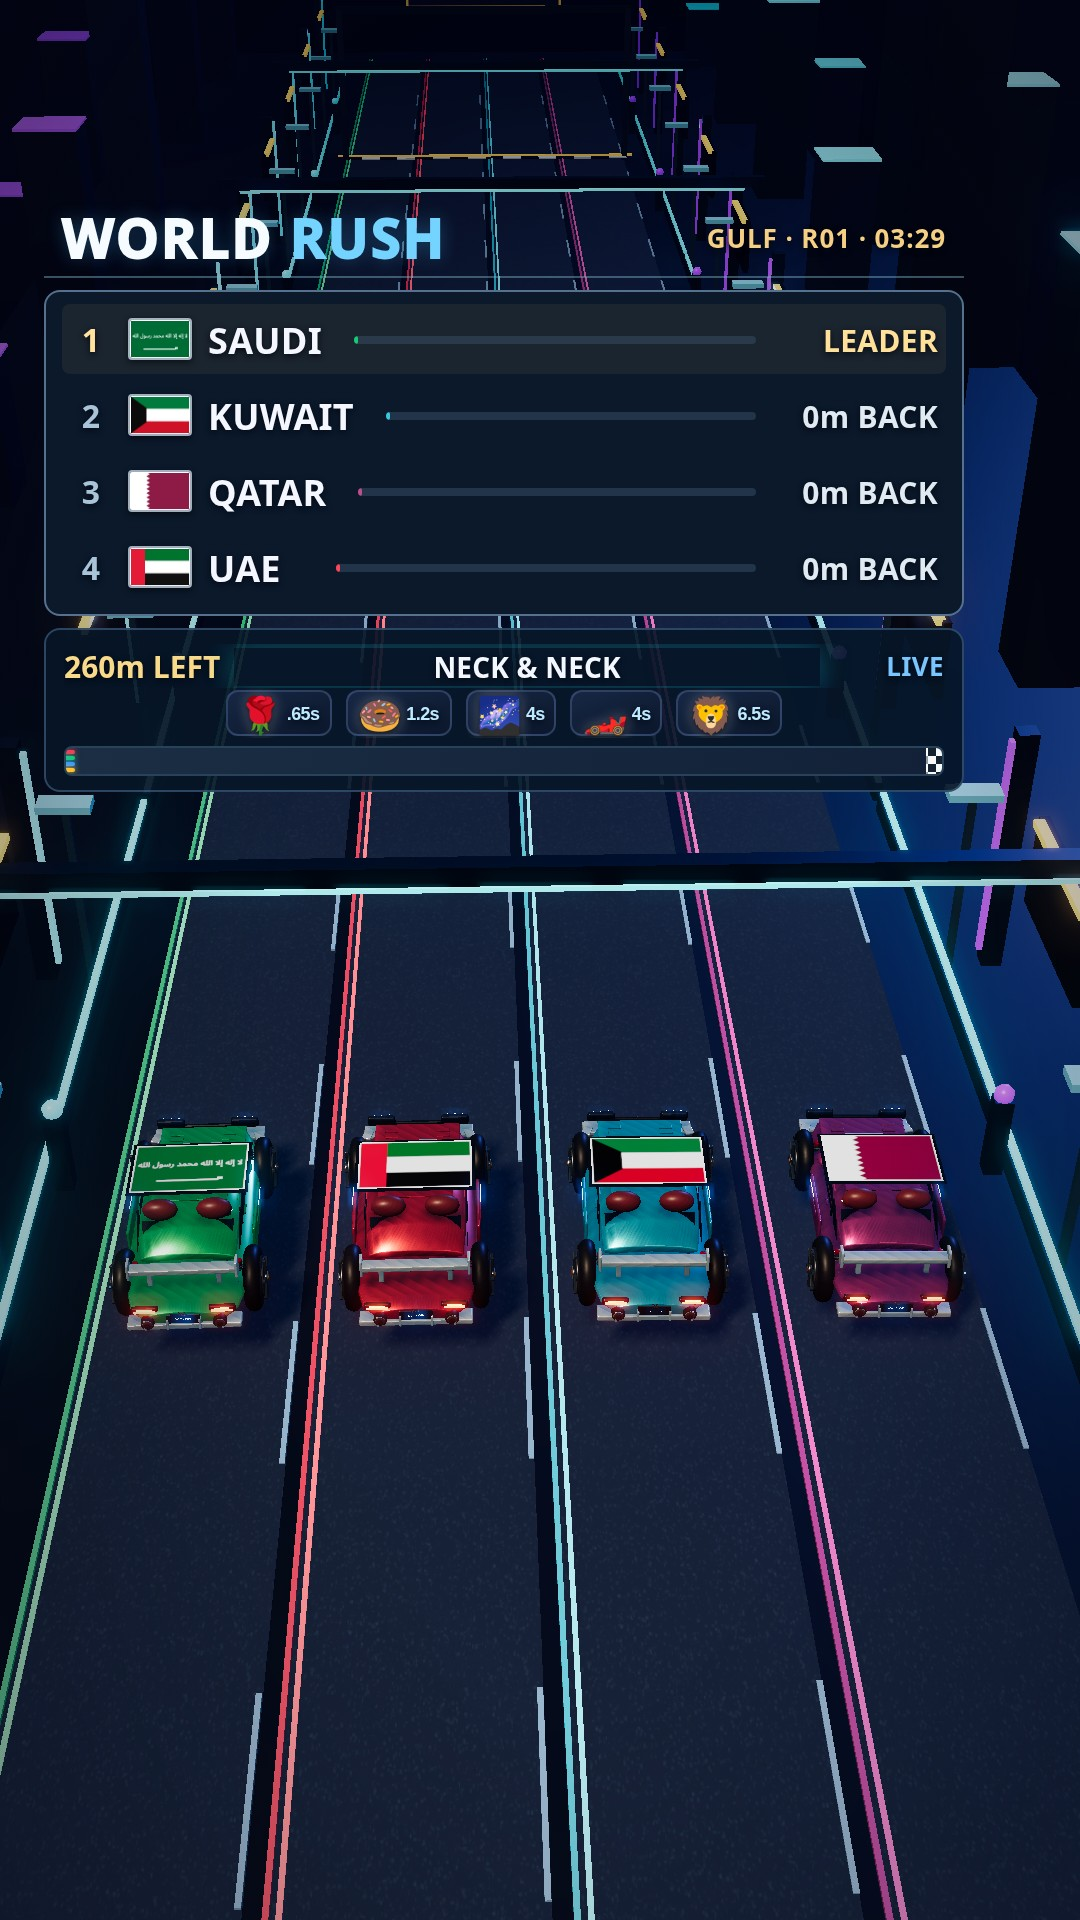
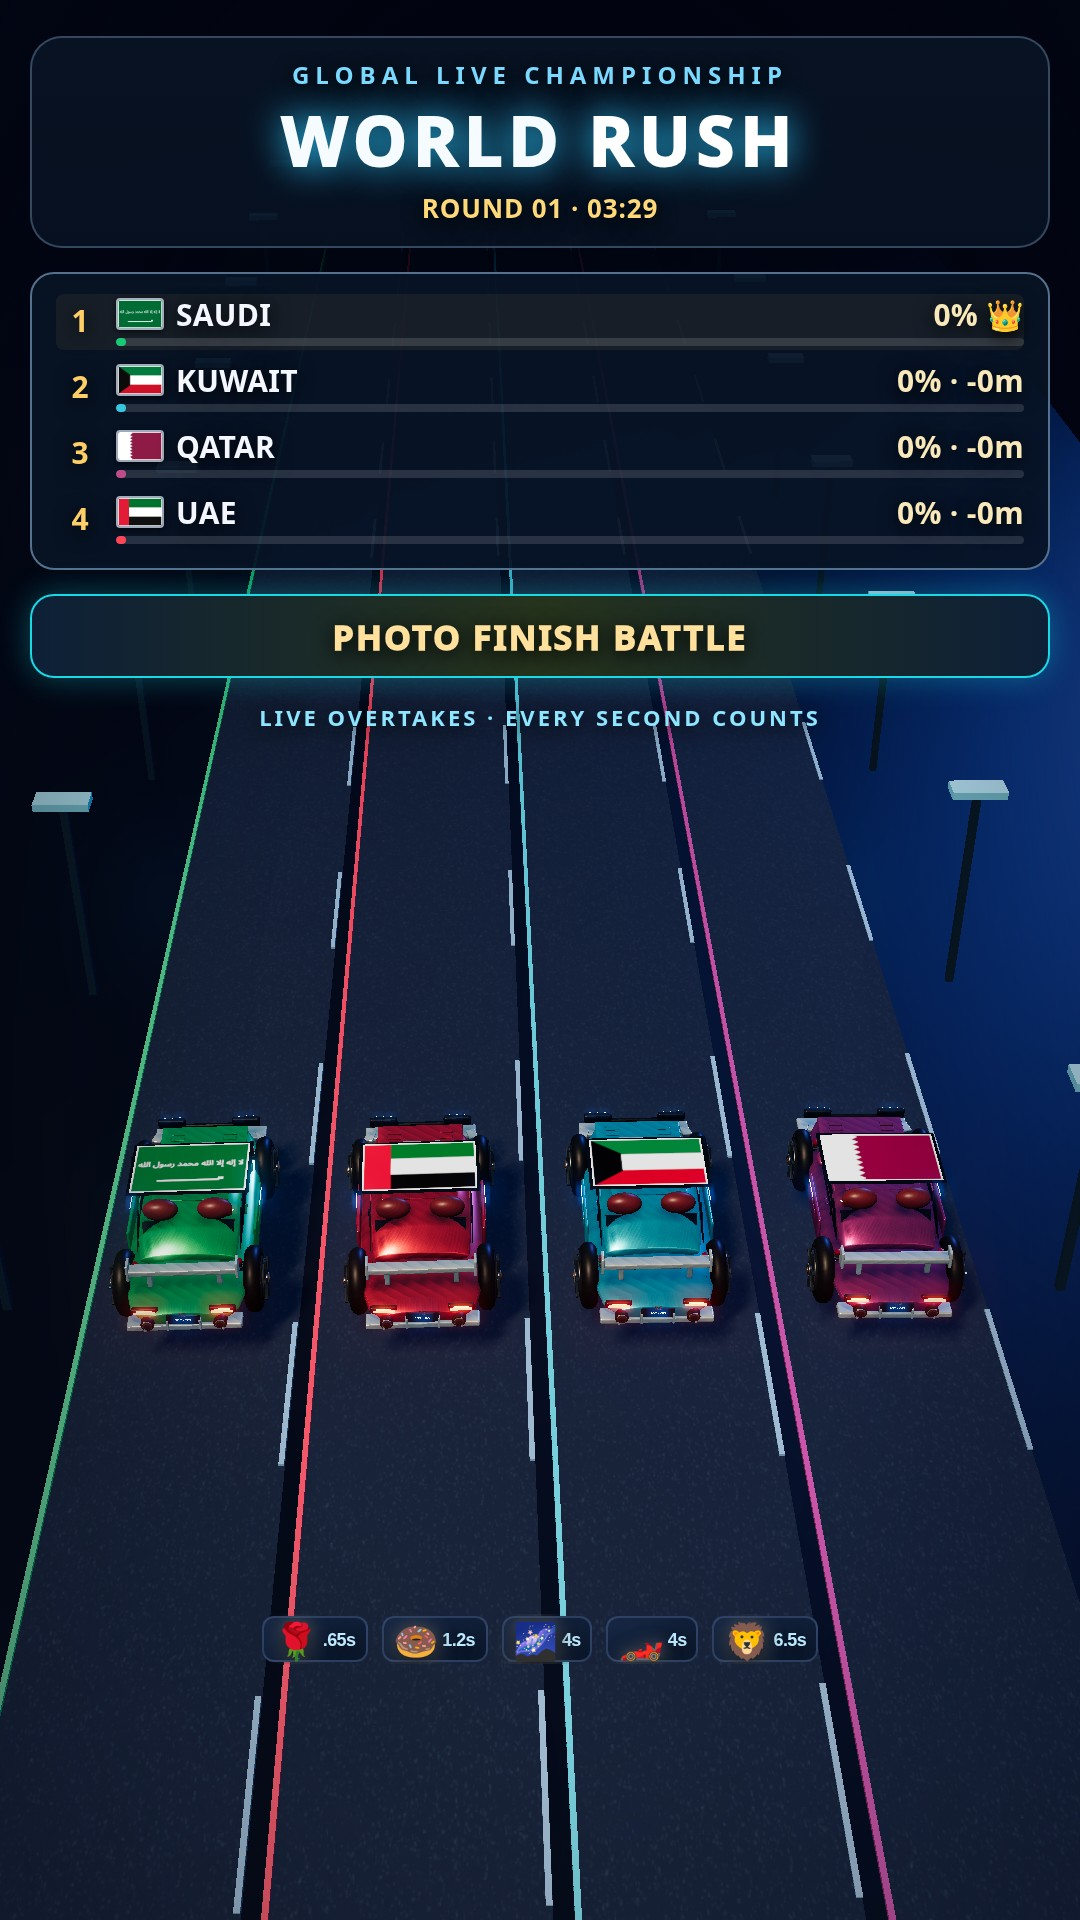
Restore championship layout across normal and portrait LIVE views

diff --git a/index.html b/index.html
@@ -145,13 +145,51 @@ html.stream-source,html.stream-source body{overflow:hidden}
 #soundUnlock[hidden]{display:none!important}
 #app.stream-mode #soundUnlock{display:none!important}
 
-</style></head><body><main id="app" class="booting broadcast-safe"><div id="stage"></div><div id="bootScreen"><div class="bootLogo">WORLD <span>RUSH</span></div><div class="bootCaption">PREPARING THE START GRID</div></div><div id="overlay"></div><div id="hud"><div id="topStack"><header><h1>WORLD <span>RUSH</span></h1><div id="meta">R01 · 03:30</div></header><div id="rank"></div><div id="raceProgress"><div id="progressLabel"><strong id="distance">260m LEFT</strong><div id="battle">RACE STARTING</div><div id="countdown">LIVE RACE</div></div><div id="joinHint">COMMENT SA / AE / KW / QA TO JOIN A TEAM · FREE</div>
+
+/* The original championship composition, shared by desktop and LIVE sources. */
+#app.portrait-layout{width:min(100vw,56.25dvh,560px);height:min(100dvh,177.77778vw,995.55556px);min-height:0}
+#app.portrait-layout.stream-mode{width:100vw;height:100dvh}
+#app.portrait-layout #hud{inset:50% auto auto 50%;width:540px;height:960px;padding:18px 15px 20px;
+ transform-origin:center;transform:translate(-50%,-50%) scale(var(--stream-scale));text-shadow:0 2px 10px #000}
+#app.portrait-layout #topStack{max-width:none;gap:12px}
+#app.portrait-layout header{height:106px;display:flex;flex-direction:column;justify-content:center;gap:6px;padding:12px;
+ border:1px solid #7b9cbd66;border-radius:16px;background:linear-gradient(#081324f5,#081324d9);text-align:center}
+#app.portrait-layout header small{font-size:12px;letter-spacing:3px;color:#7bd9ff}
+#app.portrait-layout h1{font-size:34px;letter-spacing:3px;line-height:1.1;text-shadow:0 0 18px #2cc8ff}
+#app.portrait-layout h1 span{color:#fff}
+#app.portrait-layout #meta{margin:0;font-size:13px;color:#ffd979}
+#app.portrait-layout #rank{padding:10px 12px;gap:5px;border-radius:12px;background:#071326ed}
+#app.portrait-layout .racer{height:28px;display:grid;grid-template-columns:24px 24px minmax(0,1fr) auto auto;grid-template-rows:20px 4px;gap:2px 6px;padding:0}
+#app.portrait-layout .pos{grid-row:1/3;width:24px;font-size:15px;color:#ffcf67}
+#app.portrait-layout .flag{width:24px;height:16px}
+#app.portrait-layout .name{font-size:15px;font-weight:900;min-width:0}
+#app.portrait-layout .fans{font-size:11px}
+#app.portrait-layout .pct{font-size:15px;min-width:90px;color:#f8e8ba}
+#app.portrait-layout .miniBar{grid-row:2;grid-column:2/-1;height:4px;width:100%;background:#ffffff22}
+#app.portrait-layout #raceProgress,#app.portrait-layout #progressLabel{display:contents}
+#app.portrait-layout #battle{height:42px;display:flex;align-items:center;justify-content:center;flex:none;max-width:100%;
+ padding:8px;border:1px solid #e4bd6077;border-radius:12px;background:linear-gradient(90deg,#0d2037,#26331c,#0d2037);
+ color:#ffe09c;font-size:17px;font-weight:950;letter-spacing:1px}
+#app.portrait-layout #countdown{font-size:11px;letter-spacing:1.5px;text-align:center;color:#8ee5ff}
+#app.portrait-layout #distance,#app.portrait-layout #progressTrack{display:none}
+#app.portrait-layout #joinHint{position:absolute;bottom:70px;left:15px;right:15px;white-space:normal;font-size:12px;letter-spacing:0}
+#app.portrait-layout #giftGuide{position:absolute;bottom:70px;left:15px;right:15px}
+#app.portrait-layout #event{left:20px;right:20px;top:43%;font-size:25px}
+#app.portrait-layout #comeback{display:none}
+#quickControls{position:absolute;bottom:20px;left:15px;right:15px;display:flex;justify-content:center;gap:5px;pointer-events:auto}
+#quickControls .btn{padding:9px 10px;font-size:13px;background:linear-gradient(#22466b,#10233d);border-radius:9px}
+#app.stream-mode #quickControls{display:none}
+#app.stream-mode #joinHint,#app.stream-mode #giftGuide{bottom:128px}
+#app.portrait-layout #soundUnlock{bottom:12%}
+
+</style></head><body><main id="app" class="booting broadcast-safe portrait-layout"><div id="stage"></div><div id="bootScreen"><div class="bootLogo">WORLD <span>RUSH</span></div><div class="bootCaption">PREPARING THE START GRID</div></div><div id="overlay"></div><div id="hud"><div id="topStack"><header><small>GLOBAL LIVE CHAMPIONSHIP</small><h1>WORLD <span>RUSH</span></h1><div id="meta">R01 · 03:30</div></header><div id="rank"></div><div id="raceProgress"><div id="progressLabel"><strong id="distance">260m LEFT</strong><div id="battle">RACE STARTING</div><div id="countdown">LIVE RACE</div></div><div id="joinHint">COMMENT SA / AE / KW / QA TO JOIN A TEAM · FREE</div>
 <div id="giftGuide" hidden aria-label="Hediye efektleri"><span class="giftBubble" data-gift-key="Rose"><span class="giftEmoji">🌹</span><img class="giftArt" hidden alt=""><span class="giftPower">.65s</span></span>
 <span class="giftBubble" data-gift-key="Doughnut"><span class="giftEmoji">🍩</span><img class="giftArt" hidden alt=""><span class="giftPower">1.2s</span></span>
 <span class="giftBubble" data-gift-key="Galaxy"><span class="giftEmoji">🌌</span><img class="giftArt" hidden alt=""><span class="giftPower">4s</span></span>
 <span class="giftBubble" data-gift-key="Sports Car"><span class="giftEmoji">🏎</span><img class="giftArt" hidden alt=""><span class="giftPower">4s</span></span>
 <span class="giftBubble" data-gift-key="Lion"><span class="giftEmoji">🦁</span><img class="giftArt" hidden alt=""><span class="giftPower">6.5s</span></span></div>
 <div id="progressTrack"><div id="progressFill"></div><span class="trackCar" id="trackCar0" style="top:1px;background:#ff3656;color:#ff3656"></span><span class="trackCar" id="trackCar1" style="top:4px;background:#16cb77;color:#16cb77"></span><span class="trackCar" id="trackCar2" style="top:7px;background:#349aff;color:#349aff"></span><span class="trackCar" id="trackCar3" style="top:10px;background:#ffc12f;color:#ffc12f"></span><div id="finishMark"></div></div></div></div><div id="event" aria-live="polite"></div><div id="startCountdown" aria-live="polite" hidden>3</div><div id="comeback" hidden></div><div id="teamToast" hidden aria-live="polite"></div><div id="giftMoment" hidden aria-live="polite"></div></div>
+<div id="quickControls"><button class="btn" data-action="join">💬 JOIN</button><button class="btn" data-action="rose">🌹 ROSE</button><button class="btn" data-action="turbo">⚡ TURBO</button><button class="btn" data-action="mega">🌟 MEGA</button><button class="btn" data-action="cam">🎥 CAMERA</button></div>
 <button id="soundUnlock" type="button">🔊 SESİ AÇ / TAP FOR SOUND</button>
 <div id="bridgeBadge" hidden>LIVE SYNC: WAITING</div>
 <div id="safePreview" hidden><div class="topSafe"><span>TIKTOK HEADER</span></div><div class="rightSafe"></div><div class="bottomSafe"><span>COMMENTS + GIFTS</span></div></div>
@@ -174,12 +212,13 @@ import {RenderPass} from 'three/addons/postprocessing/RenderPass.js';
 import {UnrealBloomPass} from 'three/addons/postprocessing/UnrealBloomPass.js';
 import {OutputPass} from 'three/addons/postprocessing/OutputPass.js';
 const el=document.getElementById('stage'),rank=document.getElementById('rank'),meta=document.getElementById('meta'),event=document.getElementById('event');
+document.getElementById('hud').appendChild(document.getElementById('quickControls'));
 const streamMode=new URLSearchParams(location.search).get('stream')==='1';
 if(streamMode){
  document.getElementById('app').classList.add('stream-mode');
  document.documentElement.classList.add('stream-source');
 }
-const W=560,H=900,scene=new THREE.Scene();scene.background=new THREE.Color('#070a22');scene.fog=new THREE.FogExp2('#080d25',.011);
+const W=560,H=900,scene=new THREE.Scene();scene.background=new THREE.Color('#081120');scene.fog=new THREE.Fog('#081120',22,90);
 const camera=new THREE.PerspectiveCamera(58,W/H,.1,160),renderer=new THREE.WebGLRenderer({antialias:true,alpha:false,powerPreference:'high-performance'});renderer.setPixelRatio(streamMode?1:Math.min(2,Math.max(1,devicePixelRatio||1)*2));renderer.shadowMap.enabled=true;renderer.shadowMap.type=THREE.PCFSoftShadowMap;renderer.outputColorSpace=THREE.SRGBColorSpace;renderer.toneMapping=THREE.ACESFilmicToneMapping;renderer.toneMappingExposure=1.35;el.appendChild(renderer.domElement);
 // Real GPU post-processing pipeline: physically rendered scene -> HDR bloom -> display output.
 const composer=new EffectComposer(renderer);
@@ -240,6 +279,7 @@ for(let z=-72;z<38;z+=18){
   beacon.position.set(side*7.9,1.64,z);accents.add(beacon);
  }
 }
+arena.visible=false;accents.visible=false;
 const effectParticles=[];
 const particleGeo=new THREE.SphereGeometry(.065,5,4);
 for(let i=0;i<4;i++){
@@ -407,7 +447,7 @@ function createCar(i){
  return {group,laneX:(i-1.5)*3.6,progress:0,boost:0,score:0,color:colors[i],i,pace:0,previousRank:i,burst:0,flag,flagBacking,paintMaterials:[paint],model:null}
 }
 cars=teams.map((_,i)=>createCar(i));
-if(streamMode)cars.forEach(car=>car.group.scale.setScalar(1.24));
+cars.forEach(car=>car.group.scale.setScalar(1.24));
  // Optional community GLB; verify model and asset licences before public distribution.
  // Keep original cars as a safe fallback if the remote model cannot load.
  const gt3ModelUrl='https://raw.githubusercontent.com/JaronKBragg7337/spectral-gt-rs/main/spectral_gt_rs_game_ready.glb';
@@ -1054,7 +1094,7 @@ function updateRank(){
   node.setAttribute('aria-label','Select '+teams[c.i]);
   node.querySelector('.pct').textContent=roundState==='results'
    ?(k===0?'🏆 WIN #'+(worldRecords[codes[c.i]]?.wins||1):'P'+(k+1))
-   :(k===0?'LEADER':Math.round((sorted[0].progress-c.progress)*METRES_PER_PERCENT)+'m BACK');
+   :(k===0?Math.floor(c.progress)+'% 👑':Math.floor(c.progress)+'% · -'+Math.round((sorted[0].progress-c.progress)*METRES_PER_PERCENT)+'m');
   node.querySelector('.fill').style.width=Math.max(1,c.progress)+'%';
   node.querySelector('.fill').style.background='#'+c.color.toString(16).padStart(6,'0');
   rank.appendChild(node);
@@ -1062,7 +1102,7 @@ function updateRank(){
  updateLeagueStatus();updateBridgeStatus();
  meta.textContent=roundState==='results'
  ?leagueProfiles[leagueIndex].id+' · RESULTS'
- :leagueProfiles[leagueIndex].id+' · R'+String(round).padStart(2,'0')+' · '+String(Math.floor(remaining/60)).padStart(2,'0')+':'+String(Math.floor(remaining%60)).padStart(2,'0');
+ :'ROUND '+String(round).padStart(2,'0')+' · '+String(Math.floor(remaining/60)).padStart(2,'0')+':'+String(Math.floor(remaining%60)).padStart(2,'0');
 }
 const portraitArea={width:540,height:960};
 const carCorner=new THREE.Vector3();
@@ -1070,7 +1110,7 @@ function resize(){
  const {width,height}=el.getBoundingClientRect();
  if(!width||!height)return;
  camera.aspect=width/height;camera.updateProjectionMatrix();
- if(streamMode){
+ {
   const scale=Math.min(width/540,height/960);
   appRoot.style.setProperty('--stream-scale',scale);
   portraitArea.width=540*scale/width;
@@ -1201,7 +1241,7 @@ function loop(now){
   const battleEl=document.getElementById('battle');
   battleEl.textContent=roundState==='results'
    ?flags[winnerIndex]+' '+teams[winnerIndex]+' WINS'
-   :gap<1.6?'NECK & NECK':flags[leader.i]+' '+teams[leader.i]+' +'+Math.round(gap*METRES_PER_PERCENT)+'m';
+   :gap<1.6?'PHOTO FINISH BATTLE':flags[leader.i]+' '+teams[leader.i]+' +'+Math.round(gap*METRES_PER_PERCENT)+'m';
   const leaderHex='#'+dominationColor.getHexString();
   battleEl.style.borderColor=leaderHex;
   battleEl.style.boxShadow='0 0 16px '+leaderHex+'55';
@@ -1224,7 +1264,7 @@ function loop(now){
   countdown.textContent=roundState==='results'?'CHAMPION'
    :finalSprint?'FINAL 35m'
    :remaining<15?'LAST '+Math.ceil(remaining)+'s'
-   :'LIVE';
+   :'LIVE OVERTAKES · EVERY SECOND COUNTS';
   countdown.classList.toggle('urgent',roundState==='racing'&&(finalSprint||remaining<10));
  }
  const cameraTargets=[
@@ -1235,7 +1275,7 @@ function loop(now){
  const highlight=now<closeupUntil||now<spotlightUntil||now<duelFocusUntil;
  const target=cameraTargets[highlight?0:mode],dynamicPos=[...target.pos],dynamicAim=[...target.aim];
  if(highlight){dynamicPos[1]-=1.4;dynamicPos[2]-=2.6;dynamicAim[2]+=1.2}
- if(streamMode){
+ {
   const packCenterZ=(leader.group.position.z+lastCar.group.position.z)/2;
   dynamicPos[0]*=.55;
   dynamicPos[1]=Math.max(dynamicPos[1],23);
@@ -1246,7 +1286,7 @@ function loop(now){
  camera.position.lerp(new THREE.Vector3(...dynamicPos),smooth);
  cameraLook.lerp(new THREE.Vector3(...dynamicAim),smooth);
  camera.lookAt(cameraLook);
- if(streamMode)framePortraitRace();
+ framePortraitRace();
  if(now>flashUntil){event.classList.remove('on');event.classList.remove('prestige')}
  if(now>toastExpiresAt)document.getElementById('teamToast').hidden=true;
  if(now>giftMomentUntil){

diff --git a/YAYIN_KURULUMU.md b/YAYIN_KURULUMU.md
@@ -4,6 +4,8 @@
 
 Bu URL, `index.html?stream=1` adresini açar. Gerçek 1080×1920 dikey yayında pist ve HUD o boyuta yeniden render edilir; Chrome adres çubuğunu veya geniş masaüstünü kırpmak gerekmez.
 
+Normal `index.html` ve yayın `live.html` aynı büyük şampiyona başlığını, dört satırlı skor tablosunu ve sade pist düzenini kullanır. Normal ekranda alt test/kamera düğmeleri görünür. Yayın kaynağı 1080×1920 alanını doldurur.
+
 ## Tek seferlik TikTok LIVE Studio kurulumu
 
 1. WORLD RUSH klasöründen **WORLD_RUSH_YAYIN_HAZIRLA.cmd** dosyasını aç. Sunucu yoksa başlatılır ve LIVE URL panoya kopyalanır. Mevcut Python sunucusu çalışıyorsa yenisi açılmaz.
